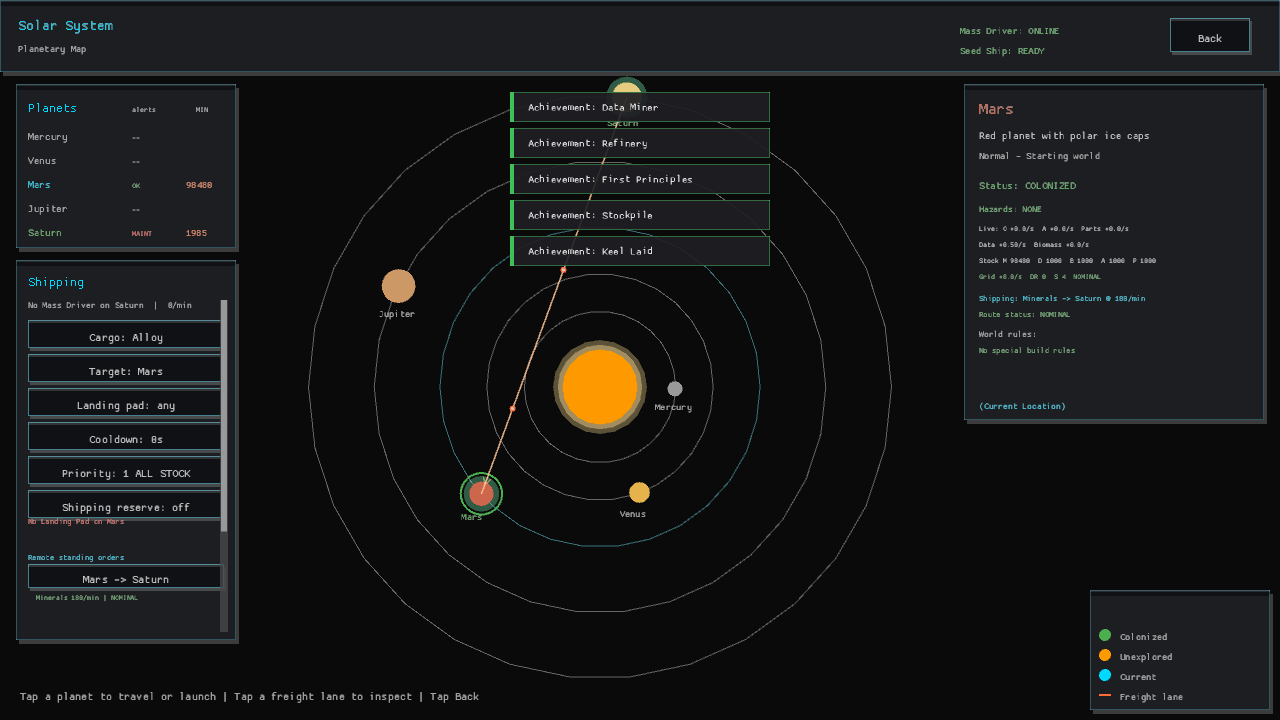
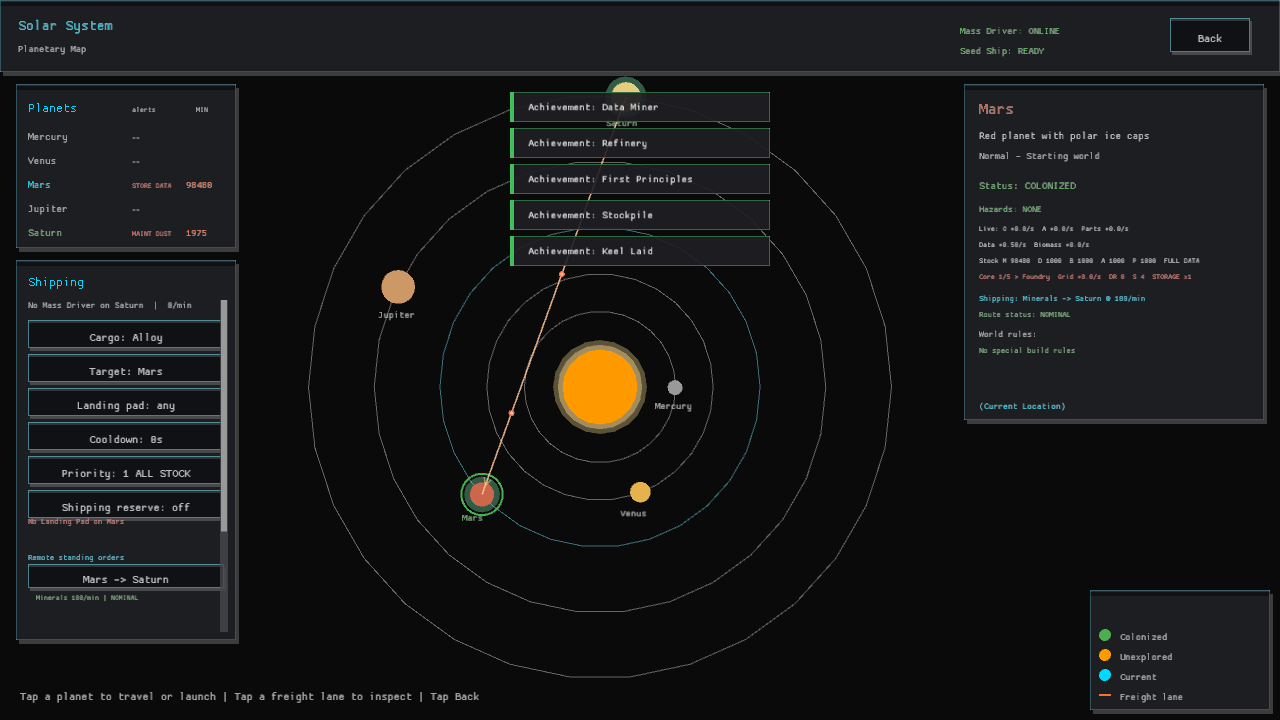
The worlds name the next shape of the swarm (remote Core telemetry, Solar System)
The Worlds dossier reported only a numeric Core stage, so remote management showed progress without telling the player what that progress meant. The next stage was visible only after travelling to the world.\n\nRemote telemetry now resolves the next declared Core stage from shared game data and adds its compact name to desktop and portrait dossier summaries. The refreshed captures cover both layouts, and the dossier regression test checks both an advancing and fully evolved Core.\n\nCo-Authored-By: Claude Opus 4.8 (1M context) <noreply@anthropic.com>

diff --git a/src/screens/interplanetary_view/world_dossier.rs b/src/screens/interplanetary_view/world_dossier.rs
@@ -1,5 +1,6 @@
 //! World dossier details shared by the desktop map and portrait map.
 
+use crate::data::GameData;
 use crate::engine::ResourceType;
 use crate::state::{cargo_name, ExportOrder, UpkeepAlertCause, WorldAlert, WorldTelemetry};
 use crate::ui::Colors;
@@ -56,14 +57,24 @@ pub(super) fn maintenance_cause_label(cause: Option<UpkeepAlertCause>) -> Option
     cause.map(UpkeepAlertCause::label)
 }
 
-pub(super) fn core_stage_summary(telemetry: &WorldTelemetry) -> String {
-    format!(
-        "Core {}/{}",
-        telemetry.core_stage, telemetry.core_stage_count
-    )
+pub(super) fn core_stage_summary(data: &GameData, telemetry: &WorldTelemetry) -> String {
+    let next_stage = data
+        .core_stages
+        .get(telemetry.core_stage)
+        .map(|stage| stage.name.split_whitespace().last().unwrap_or(&stage.name));
+    match next_stage {
+        Some(next) => format!(
+            "Core {}/{} > {}",
+            telemetry.core_stage, telemetry.core_stage_count, next
+        ),
+        None => format!(
+            "Core {}/{}",
+            telemetry.core_stage, telemetry.core_stage_count
+        ),
+    }
 }
 
-pub(super) fn draw_world_telemetry(telemetry: &WorldTelemetry, x: f32, y: f32) {
+pub(super) fn draw_world_telemetry(data: &GameData, telemetry: &WorldTelemetry, x: f32, y: f32) {
     let storage_suffix = storage_resource_label(telemetry.storage_full_resource)
         .map(|label| format!("  FULL {label}"))
         .unwrap_or_default();
@@ -125,7 +136,7 @@ pub(super) fn draw_world_telemetry(telemetry: &WorldTelemetry, x: f32, y: f32) {
     draw_ui_text(
         &format!(
             "{}  Grid {:+.1}/s  DR {}  S {}  {}",
-            core_stage_summary(telemetry),
+            core_stage_summary(data, telemetry),
             telemetry.power_balance,
             telemetry.drones,
             telemetry.structures,

diff --git a/src/screens/interplanetary_view/mobile.rs b/src/screens/interplanetary_view/mobile.rs
@@ -255,7 +255,7 @@ fn draw_mobile_planet_info(
         } else if let Some(telemetry) = telemetry {
             format!(
                 "{} | M {:.0} D {:.0} B {:.0}",
-                core_stage_summary(&telemetry),
+                core_stage_summary(view.data, &telemetry),
                 telemetry.minerals,
                 telemetry.data,
                 telemetry.biomass
@@ -325,7 +325,7 @@ fn draw_mobile_planet_info(
                 &truncate_text_to_width(
                     &format!(
                         "{} | Stock M {:.0} D {:.0} B {:.0}{}",
-                        core_stage_summary(&telemetry),
+                        core_stage_summary(view.data, &telemetry),
                         telemetry.minerals,
                         telemetry.data,
                         telemetry.biomass,
@@ -453,7 +453,7 @@ fn draw_mobile_planet_info(
     if let Some(telemetry) = telemetry {
         let live = format!(
             "{} | Live O +{:.1}/s  A +{:.1}/s  Parts +{:.1}/s",
-            core_stage_summary(&telemetry),
+            core_stage_summary(view.data, &telemetry),
             telemetry.ore_rate,
             telemetry.alloy_rate,
             telemetry.components_rate

diff --git a/src/screens/interplanetary_view/tests.rs b/src/screens/interplanetary_view/tests.rs
@@ -199,10 +199,18 @@ fn planet_list_alert_codes_keep_remote_failures_scannable() {
 
 #[test]
 fn remote_dossiers_name_the_worlds_core_stage() {
+    let data = crate::data::test_data();
     assert_eq!(
-        core_stage_summary(&telemetry(0, crate::state::WorldAlert::Nominal)),
-        "Core 1/5"
+        core_stage_summary(
+            data.data(),
+            &telemetry(0, crate::state::WorldAlert::Nominal)
+        ),
+        "Core 1/5 > Foundry"
     );
+
+    let mut finished = telemetry(0, crate::state::WorldAlert::Nominal);
+    finished.core_stage = finished.core_stage_count;
+    assert_eq!(core_stage_summary(data.data(), &finished), "Core 5/5");
 }
 
 #[test]

diff --git a/src/screens/interplanetary_view.rs b/src/screens/interplanetary_view.rs
@@ -587,7 +587,7 @@ fn draw_planet_info(
 
     let telemetry = view.telemetry.get(index).copied().flatten();
     if let Some(telemetry) = telemetry {
-        draw_world_telemetry(&telemetry, panel_x + 15.0, panel_y + 147.0);
+        draw_world_telemetry(view.data, &telemetry, panel_x + 15.0, panel_y + 147.0);
     }
 
     let info_end = if telemetry.is_some() {

diff --git a/README.md b/README.md
@@ -31,8 +31,9 @@ The swarm is powerful, but every expansion changes the terrain, stresses the gri
 - A colonized world's dossier also names its standing freight route, nominal
   cargo rate, and live route status, so remote supply chains can be checked
   from the Worlds view before opening Shipping controls.
-- The same remote dossier shows each world's current Core stage, so strategic
-  growth remains visible even when the swarm is managing another world.
+- The same remote dossier shows each world's current and next Core stage, so
+  strategic growth remains visible even when the swarm is managing another
+  world.
 
 ## Goal
 
